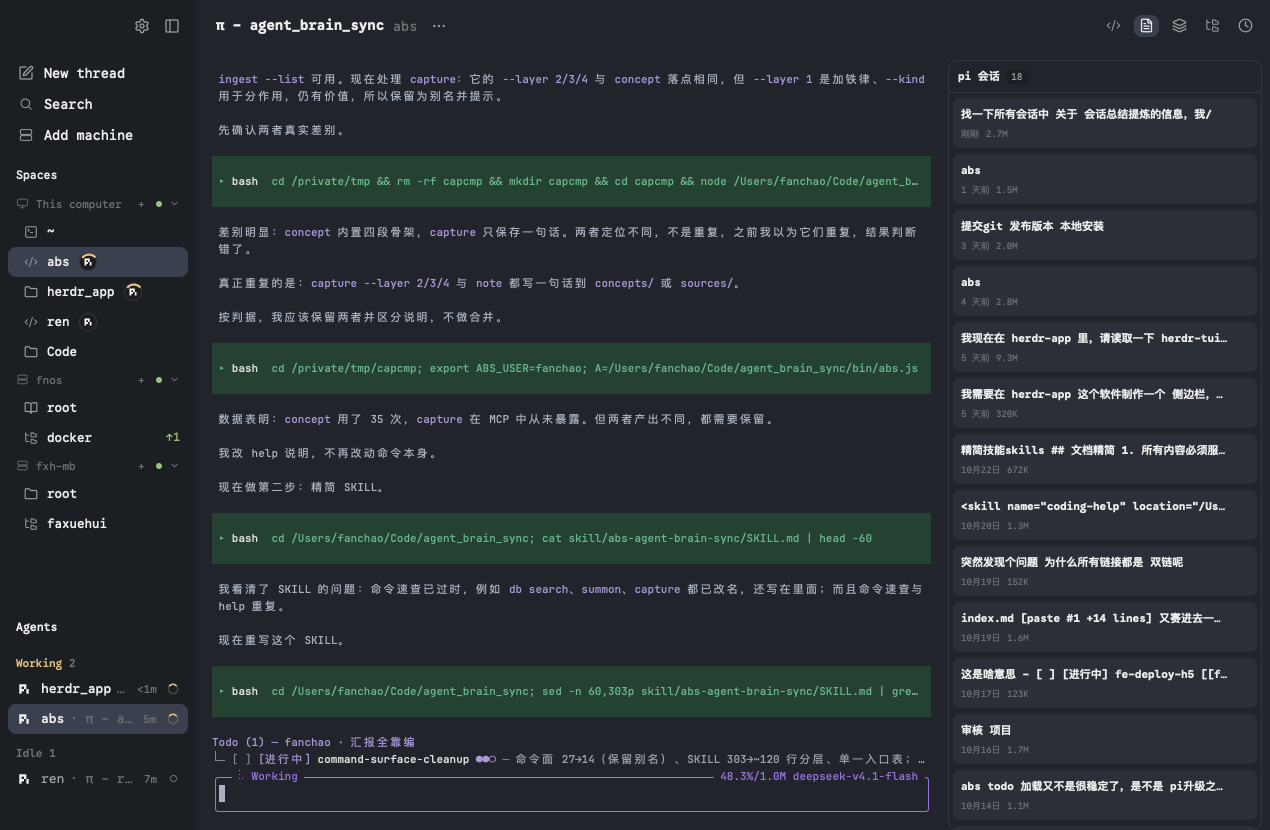
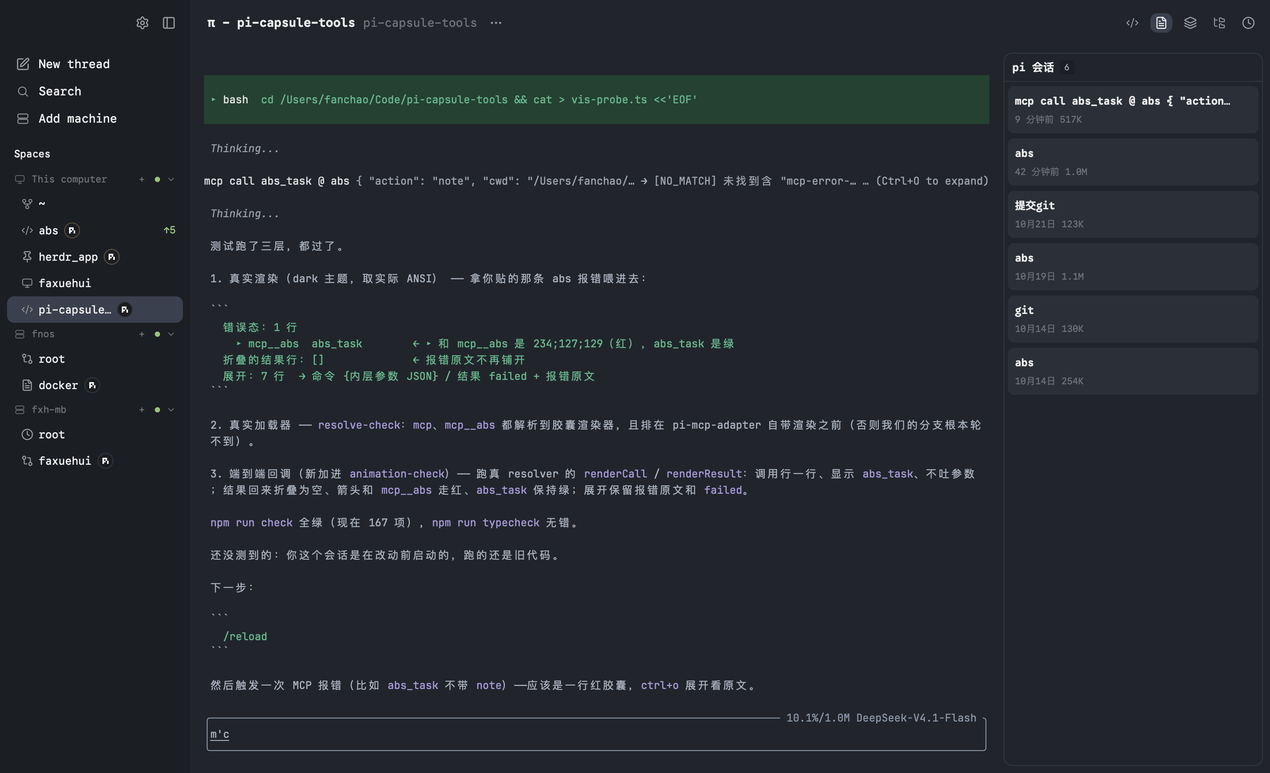
同步 panel.js 到最新；preview.png 换成当前界面（去掉 agents 模块、名字 10 字母、描边脉动）

diff --git a/mods/abs/parts/panel.js b/mods/abs/parts/panel.js
@@ -8,6 +8,14 @@ import { spaces, panes, focused, readTextFile, writeTextFile, watchFolder, exec,
 
 const LIMIT = 200;
 
+// 字号：跟左侧栏（side.js / spaces.js 用 12 / 12.5 / 13）对齐，
+// 面板正文不再自留小一号。要统一调就改这五个值。
+const FS_CARD = 12.5;   // 卡片标题
+const FS_ITEM = 12;     // 条目标题（任务、日志、会话、图谱分区）
+const FS_BODY = 11.5;   // 正文、空态提示
+const FS_META = 10.5;   // 日期、徽章计数、分区标签、分页
+const FS_BADGE = 10;    // 带底色的状态徽章（白字）
+
 function norm(p) {
   return String(p || "").replace(/\/+$/, "");
 }
@@ -491,8 +499,8 @@ export default class AbsPanel extends View {
       .border_1().border_color(t.border)
       .when(fill > 0, (e) => e.flex_grow(fill).flex_basis(0).min_h(0), (e) => e.flex_none())
       .child(h_flex().h(32).flex_none().px(9).gap(6).items_center().border_b(1).border_color(t.border)
-        .child(div().text_size(11).font_semibold().text_color(t.foreground).child(title))
-        .when(badge != null, (e) => e.child(div().px(5).rounded(4).bg(t.chrome).text_size(9.5).text_color(t.muted).child(String(badge))))
+        .child(div().text_size(FS_CARD).font_semibold().text_color(t.foreground).child(title))
+        .when(badge != null, (e) => e.child(div().px(5).rounded(4).bg(t.chrome).text_size(FS_BADGE).text_color(t.muted).child(String(badge))))
         .child(div().flex_1()))
       .child(
         fill > 0
@@ -649,15 +657,15 @@ export default class AbsPanel extends View {
       // 第一行：状态点 + 标题，右侧是状态标签和子项数。
       .child(h_flex().gap(6).items_center()
         .child(div().size(6).flex_none().rounded(3).bg(dot))
-        .child(div().flex_1().min_w(0).truncate().text_size(11).font_semibold().text_color(t.foreground).child(task.title))
-        .when(Boolean(task.state), (e) => e.child(div().flex_none().px(5).py(1).rounded(4).bg(this.stateBadge(t, task.state)).text_size(9).text_color("#ffffff").child(task.state))))
+        .child(div().flex_1().min_w(0).truncate().text_size(FS_ITEM).font_semibold().text_color(t.foreground).child(task.title))
+        .when(Boolean(task.state), (e) => e.child(div().flex_none().px(5).py(1).rounded(4).bg(this.stateBadge(t, task.state)).text_size(FS_BADGE).text_color("#ffffff").child(task.state))))
       // 第二行：描述，没有就不画这一行
       .when(Boolean(detail), (e) =>
-        e.child(div().w_full().min_w(0).truncate().text_size(9).text_color(t.dim).child(detail)),
+        e.child(div().w_full().min_w(0).truncate().text_size(FS_META).text_color(t.dim).child(detail)),
       )
       // 第三行：只有日期就画，没有就不占位置。
       .when(Boolean(task.date), (e) =>
-        e.child(div().w_full().text_size(9).text_color(t.dim).child(task.date)),
+        e.child(div().w_full().text_size(FS_META).text_color(t.dim).child(task.date)),
       )
       // 子项：在下面按树形列出来，最后一条用 └─。
       .when(kids.length > 0, (e) =>
@@ -674,11 +682,11 @@ export default class AbsPanel extends View {
                   .child(
                     div()
                       .flex_none()
-                      .text_size(9)
+                      .text_size(FS_META)
                       .text_color(t.dim)
                       .child(`${i === kids.length - 1 ? "└─" : "├─"} ${kid.done ? "☑" : "☐"}`),
                   )
-                  .child(div().flex_1().min_w(0).truncate().text_size(9.5).text_color(kid.done ? t.dim : t.muted).child(kid.text)),
+                  .child(div().flex_1().min_w(0).truncate().text_size(FS_META).text_color(kid.done ? t.dim : t.muted).child(kid.text)),
               ),
             ),
         ),
@@ -691,8 +699,8 @@ export default class AbsPanel extends View {
             .mt(2)
             .pl(9)
             .gap(2)
-            .when(Boolean(this.logMissing), (x) => x.child(div().text_size(9).text_color(t.ansi1).child(this.logMissing)))
-            .when(this.logTasks.length === 0 && !this.logMissing, (x) => x.child(div().text_size(9).text_color(t.dim).child("这份记录里没有任务")))
+            .when(Boolean(this.logMissing), (x) => x.child(div().text_size(FS_META).text_color(t.ansi1).child(this.logMissing)))
+            .when(this.logTasks.length === 0 && !this.logMissing, (x) => x.child(div().text_size(FS_META).text_color(t.dim).child("这份记录里没有任务")))
             .children(
               this.logTasks.map((x) =>
                 v_flex()
@@ -703,14 +711,14 @@ export default class AbsPanel extends View {
                       .gap(5)
                       .items_center()
                       .child(div().w(1).h(11).flex_none().rounded(1).bg(x.done ? t.ansi3 : t.border))
-                      .child(div().flex_1().min_w(0).truncate().text_size(10).text_color(t.muted).child(x.title))
-                      .when(Boolean(x.verdict), (el) => el.child(div().text_size(9).text_color(t.dim).child(x.verdict))),
+                      .child(div().flex_1().min_w(0).truncate().text_size(FS_BODY).text_color(t.muted).child(x.title))
+                      .when(Boolean(x.verdict), (el) => el.child(div().text_size(FS_META).text_color(t.dim).child(x.verdict))),
                   )
                   .when(Boolean(x.note && x.note !== x.title), (el) =>
-                    el.child(div().pl(6).text_size(9).text_color(t.dim).truncate().child(x.note)),
+                    el.child(div().pl(6).text_size(FS_META).text_color(t.dim).truncate().child(x.note)),
                   )
                   .children((x.children ?? []).map((k) =>
-                    div().pl(6).text_size(9).text_color(t.dim).truncate().child(`${k.done ? "☑" : "☐"} ${k.text}`),
+                    div().pl(6).text_size(FS_META).text_color(t.dim).truncate().child(`${k.done ? "☑" : "☐"} ${k.text}`),
                   )),
               ),
             ),
@@ -753,7 +761,7 @@ export default class AbsPanel extends View {
           this.boardPage = to;
           cx.notify();
         })
-        .child(div().text_size(9.5).child(label));
+        .child(div().text_size(FS_META).child(label));
     const footer =
       pages > 1
         ? h_flex()
@@ -767,7 +775,7 @@ export default class AbsPanel extends View {
             .border_t(1)
             .border_color(t.border)
             .child(btn("abs-board-prev", "‹ Prev", page - 1, page > 0))
-            .child(div().text_size(9).text_color(t.muted).child(`${page + 1} / ${pages}`))
+            .child(div().text_size(FS_META).text_color(t.muted).child(`${page + 1} / ${pages}`))
             .child(btn("abs-board-next", "Next ›", page + 1, page < pages - 1))
         : null;
 
@@ -786,7 +794,7 @@ export default class AbsPanel extends View {
 
   // 卡片里的空提示：占一段高度，文字水平垂直居中。
   emptyNote(t, text) {
-    return div().w_full().flex_none().h(64).flex().items_center().justify_center().text_size(10).text_color(t.dim).child(text);
+    return div().w_full().flex_none().h(64).flex().items_center().justify_center().text_size(FS_BODY).text_color(t.dim).child(text);
   }
 
   // 最近完成：单独一张卡，与看板并列。
@@ -803,8 +811,8 @@ export default class AbsPanel extends View {
           .bg(t.raised).cursor_pointer().hover((el) => el.bg(t.chrome))
           .on_click(() => this.openDetail("section", s))
           .child(div().size(7).flex_none().rounded(4).bg(t.ansi6))
-          .child(div().flex_1().min_w(0).truncate().text_size(10.5).font_semibold().text_color(t.foreground).child(s.name))
-          .child(div().text_size(9.5).text_color(t.muted).child(`${s.items.length || s.stated || 0} 页`))) : [div().px(6).text_size(10).text_color(t.dim).child("索引为空")]),
+          .child(div().flex_1().min_w(0).truncate().text_size(FS_ITEM).font_semibold().text_color(t.foreground).child(s.name))
+          .child(div().text_size(FS_META).text_color(t.muted).child(`${s.items.length || s.stated || 0} 页`))) : [div().px(6).text_size(FS_BODY).text_color(t.dim).child("索引为空")]),
       ],
     );
   }
@@ -826,24 +834,24 @@ export default class AbsPanel extends View {
       [
         ...(shown.length ? shown.map((text, i) => h_flex().w_full().flex_none().gap(6).items_center().px(7).py(6).rounded(7)
           .bg(t.raised).hover((el) => el.bg(t.chrome))
-          .child(div().text_size(9).flex_none().text_color(t.ansi6).child(`${i + 1}`))
-          .child(div().flex_1().min_w(0).text_size(10).text_color(t.foreground).child(text))
+          .child(div().text_size(FS_META).flex_none().text_color(t.ansi6).child(`${i + 1}`))
+          .child(div().flex_1().min_w(0).text_size(FS_BODY).text_color(t.foreground).child(text))
           .when(editable, (e) => e.child(div().id(`abs-rule-del-${i}`).size(18).flex_none().flex().items_center().justify_center()
-            .rounded(5).text_size(10).text_color(t.dim).cursor_pointer()
+            .rounded(5).text_size(FS_BODY).text_color(t.dim).cursor_pointer()
             .hover((s) => s.bg(t.hover).text_color(t.ansi1))
-            .on_click(() => this.removeRule(i)).child("×")))) : [div().px(6).text_size(10).text_color(t.dim).child("还没有铁律")]),
-        ...(hidden > 0 ? [h_flex().id("abs-rule-more").h(22).px(6).flex_none().items_center().text_size(9.5).text_color(t.dim)
+            .on_click(() => this.removeRule(i)).child("×")))) : [div().px(6).text_size(FS_BODY).text_color(t.dim).child("还没有铁律")]),
+        ...(hidden > 0 ? [h_flex().id("abs-rule-more").h(22).px(6).flex_none().items_center().text_size(FS_META).text_color(t.dim)
           .cursor_pointer().hover((s) => s.text_color(t.foreground))
           .on_click((_e, cx) => { this.rulesOpen = true; cx.notify(); }).child(`还有 ${hidden} 条，展开`)] : []),
-        ...(expanded && rules.length > LIMIT ? [h_flex().id("abs-rule-less").h(22).px(6).flex_none().items_center().text_size(9.5).text_color(t.dim)
+        ...(expanded && rules.length > LIMIT ? [h_flex().id("abs-rule-less").h(22).px(6).flex_none().items_center().text_size(FS_META).text_color(t.dim)
           .cursor_pointer().hover((s) => s.text_color(t.foreground))
           .on_click((_e, cx) => { this.rulesOpen = false; cx.notify(); }).child("收起")] : []),
         editable
           ? h_flex().id("abs-rule-add").mt(2).h(26).px(8).flex_none().items_center().justify_center().gap(5).rounded(7)
-            .text_size(10).text_color(t.dim).cursor_pointer()
+            .text_size(FS_BODY).text_color(t.dim).cursor_pointer()
             .hover((s) => s.bg(t.chrome).text_color(t.foreground))
             .on_click(() => this.addRule()).child("+ 添加铁律")
-          : div().px(6).text_size(9.5).text_color(t.dim).child(this.brainOn ? `${this.brainOn} 上的文件改不了，只能看` : "没找到 index.md"),
+          : div().px(6).text_size(FS_META).text_color(t.dim).child(this.brainOn ? `${this.brainOn} 上的文件改不了，只能看` : "没找到 index.md"),
       ],
     );
   }
@@ -918,22 +926,22 @@ export default class AbsPanel extends View {
             .hover((el) => el.bg(t.chrome))
             .on_click(() => this.openDetail("entry", e))
             // 第一行：标题
-            .child(div().w_full().min_w(0).truncate().text_size(11).font_semibold().text_color(t.foreground).child(title))
+            .child(div().w_full().min_w(0).truncate().text_size(FS_ITEM).font_semibold().text_color(t.foreground).child(title))
             // 第二行：详情
             .when(Boolean(detail), (el) =>
-              el.child(div().w_full().min_w(0).truncate().text_size(9).text_color(t.dim).child(detail)),
+              el.child(div().w_full().min_w(0).truncate().text_size(FS_META).text_color(t.dim).child(detail)),
             )
             // 第三行：作者在左，时间在右
             .child(
               h_flex()
                 .gap(6)
                 .items_center()
-                .child(div().text_size(9).text_color(t.dim).child(e.who || ""))
+                .child(div().text_size(FS_META).text_color(t.dim).child(e.who || ""))
                 .child(div().flex_1())
-                .child(div().text_size(9).text_color(t.dim).child(e.when)),
+                .child(div().text_size(FS_META).text_color(t.dim).child(e.when)),
             );
         })
-      : [div().w_full().py(10).text_size(10).text_color(t.dim).text_center().child("还没有日志")];
+      : [div().w_full().py(10).text_size(FS_BODY).text_color(t.dim).text_center().child("还没有日志")];
 
     const btn = (id, label, to, on) =>
       h_flex()
@@ -951,7 +959,7 @@ export default class AbsPanel extends View {
           this.logPage = to;
           cx.notify();
         })
-        .child(div().text_size(9.5).child(label));
+        .child(div().text_size(FS_META).child(label));
 
     // 翻页条固定在卡片底部，不跟着列表滚。
     const footer =
@@ -967,7 +975,7 @@ export default class AbsPanel extends View {
             .border_t(1)
             .border_color(t.border)
             .child(btn("abs-log-prev", "‹ Prev", page - 1, page > 0))
-            .child(div().text_size(9).text_color(t.muted).child(`${page + 1} / ${pages}`))
+            .child(div().text_size(FS_META).text_color(t.muted).child(`${page + 1} / ${pages}`))
             .child(btn("abs-log-next", "Next ›", page + 1, page < pages - 1))
         : null;
 
@@ -1046,7 +1054,7 @@ export default class AbsPanel extends View {
 
     const body = shown.length
       ? shown.map((x) => this.sessRow(x, bg))
-      : [div().px(6).py(8).text_size(10).text_color(t.dim).child("这个文件夹没有会话")];
+      : [div().px(6).py(8).text_size(FS_BODY).text_color(t.dim).child("这个文件夹没有会话")];
 
     const btn = (id, label, to, on) =>
       h_flex()
@@ -1064,7 +1072,7 @@ export default class AbsPanel extends View {
           this.sessPage = to;
           cx.notify();
         })
-        .child(div().text_size(9.5).child(label));
+        .child(div().text_size(FS_META).child(label));
 
     const footer =
       pages > 1
@@ -1079,7 +1087,7 @@ export default class AbsPanel extends View {
             .border_t(1)
             .border_color(t.border)
             .child(btn("abs-sess-prev", "‹ Prev", page - 1, page > 0))
-            .child(div().text_size(9).text_color(t.muted).child(`${page + 1} / ${pages}`))
+            .child(div().text_size(FS_META).text_color(t.muted).child(`${page + 1} / ${pages}`))
             .child(btn("abs-sess-next", "Next ›", page + 1, page < pages - 1))
         : null;
 
@@ -1226,13 +1234,13 @@ export default class AbsPanel extends View {
         if (had !== h) cx.notify();
       })
       .on_click((_e, cx) => this.sessResume(s, cx))
-      .child(div().w_full().min_w(0).truncate().text_size(11).font_semibold().text_color(arming ? t.background : t.foreground).child(title))
+      .child(div().w_full().min_w(0).truncate().text_size(FS_ITEM).font_semibold().text_color(arming ? t.background : t.foreground).child(title))
       .child(
         h_flex()
           .gap(6)
           .items_center()
-          .child(div().text_size(9).text_color(t.dim).child(ago(s.mtime)))
-          .child(div().text_size(9).text_color(t.dim).child(sizeText(s.size))),
+          .child(div().text_size(FS_META).text_color(t.dim).child(ago(s.mtime)))
+          .child(div().text_size(FS_META).text_color(t.dim).child(sizeText(s.size))),
       )
       // 删除按钮：平时藏着，鼠标落在这一行时在右侧垂直居中冒出来。无背景、不变色。
       .child(
@@ -1253,7 +1261,7 @@ export default class AbsPanel extends View {
                 cx.stop_propagation();
                 this.sessRemove(s, cx);
               })
-              .child(div().text_size(11).text_color(arming ? t.background : t.dim).child(arming ? "删?" : "×")),
+              .child(div().text_size(FS_ITEM).text_color(arming ? t.background : t.dim).child(arming ? "删?" : "×")),
           ),
       );
   }
@@ -1279,8 +1287,8 @@ export default class AbsPanel extends View {
       : [this.logCard(1)];
     return v_flex().id("abs-panel").size_full().min_h(0).text_color(t.foreground).bg(t.background)
       .child(div().flex_1().min_h(0).p(0).when(fillsPanel, (e) => e.flex(), (e) => e.overflow_y_scrollbar()).child(v_flex().gap(10).w_full().when(fillsPanel, (x) => x.flex_1().min_h(0))
-        .when(this.note != null, (e) => e.child(div().px(9).py(7).rounded(8).bg(t.raised).border_1().border_color(t.border).text_size(10).text_color(t.ansi3).child(this.note)))
-        .when(this.error != null, (e) => e.child(div().px(9).py(7).rounded(8).bg(t.raised).border_1().border_color(t.ansi1).text_size(10).text_color(t.ansi1).child(this.error)))
+        .when(this.note != null, (e) => e.child(div().px(9).py(7).rounded(8).bg(t.raised).border_1().border_color(t.border).text_size(FS_BODY).text_color(t.ansi3).child(this.note)))
+        .when(this.error != null, (e) => e.child(div().px(9).py(7).rounded(8).bg(t.raised).border_1().border_color(t.ansi1).text_size(FS_BODY).text_color(t.ansi1).child(this.error)))
         .children(body)));
   }
 }
